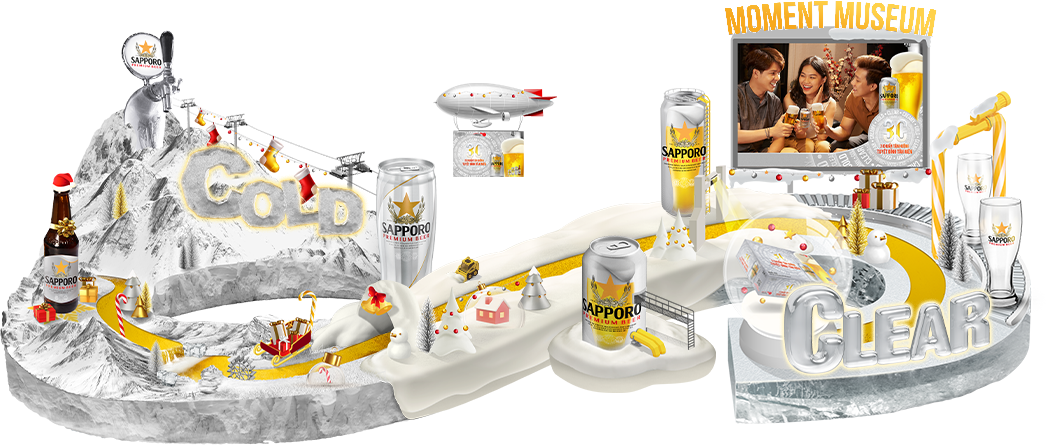
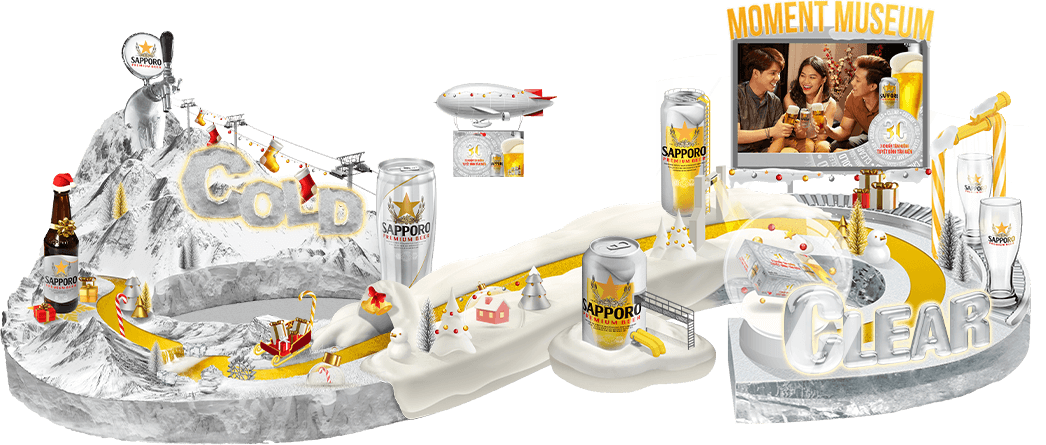
update fixbug 3c noel

diff --git a/sapporo-3c-noel/css/style.css b/sapporo-3c-noel/css/style.css
@@ -850,14 +850,14 @@ input[type="submit"] {
 .text-moment-museum {
   position: absolute;
   height: 6.2%;
-  top: 17.78%;
-  right: 19%;
-  width: 16.4%; }
+  top: 18.78%;
+  right: 19.2%;
+  width: 15.7%; }
   @media screen and (max-width: 768px) {
     .text-moment-museum {
-      top: 20.5%;
-      right: 13.6%;
-      width: 19.1%;
+      top: 21.5%;
+      right: 14%;
+      width: 18.4%;
       height: 7%; } }
   .text-moment-museum .inner-text-moment-museum {
     position: relative;

diff --git a/sapporo-3c-noel/css/anmodule.css b/sapporo-3c-noel/css/anmodule.css
@@ -474,14 +474,14 @@
 .text-moment-museum {
   position: absolute;
   height: 6.2%;
-  top: 17.78%;
-  right: 19%;
-  width: 16.4%; }
+  top: 18.78%;
+  right: 19.2%;
+  width: 15.7%; }
   @media screen and (max-width: 768px) {
     .text-moment-museum {
-      top: 20.5%;
-      right: 13.6%;
-      width: 19.1%;
+      top: 21.5%;
+      right: 14%;
+      width: 18.4%;
       height: 7%; } }
   .text-moment-museum .inner-text-moment-museum {
     position: relative;
